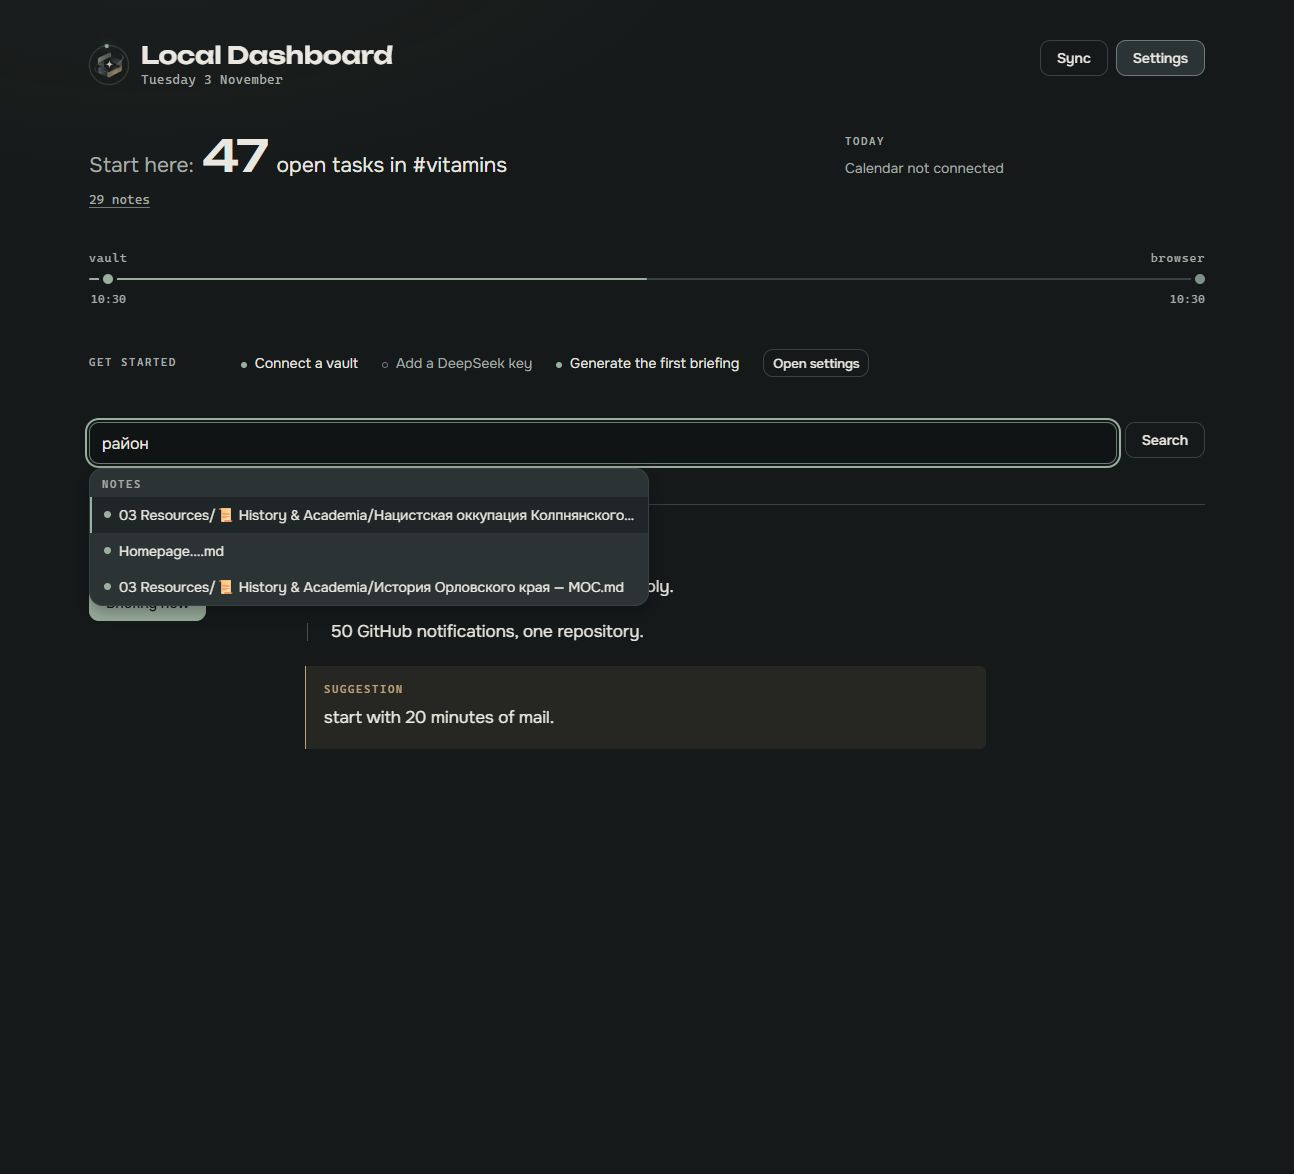
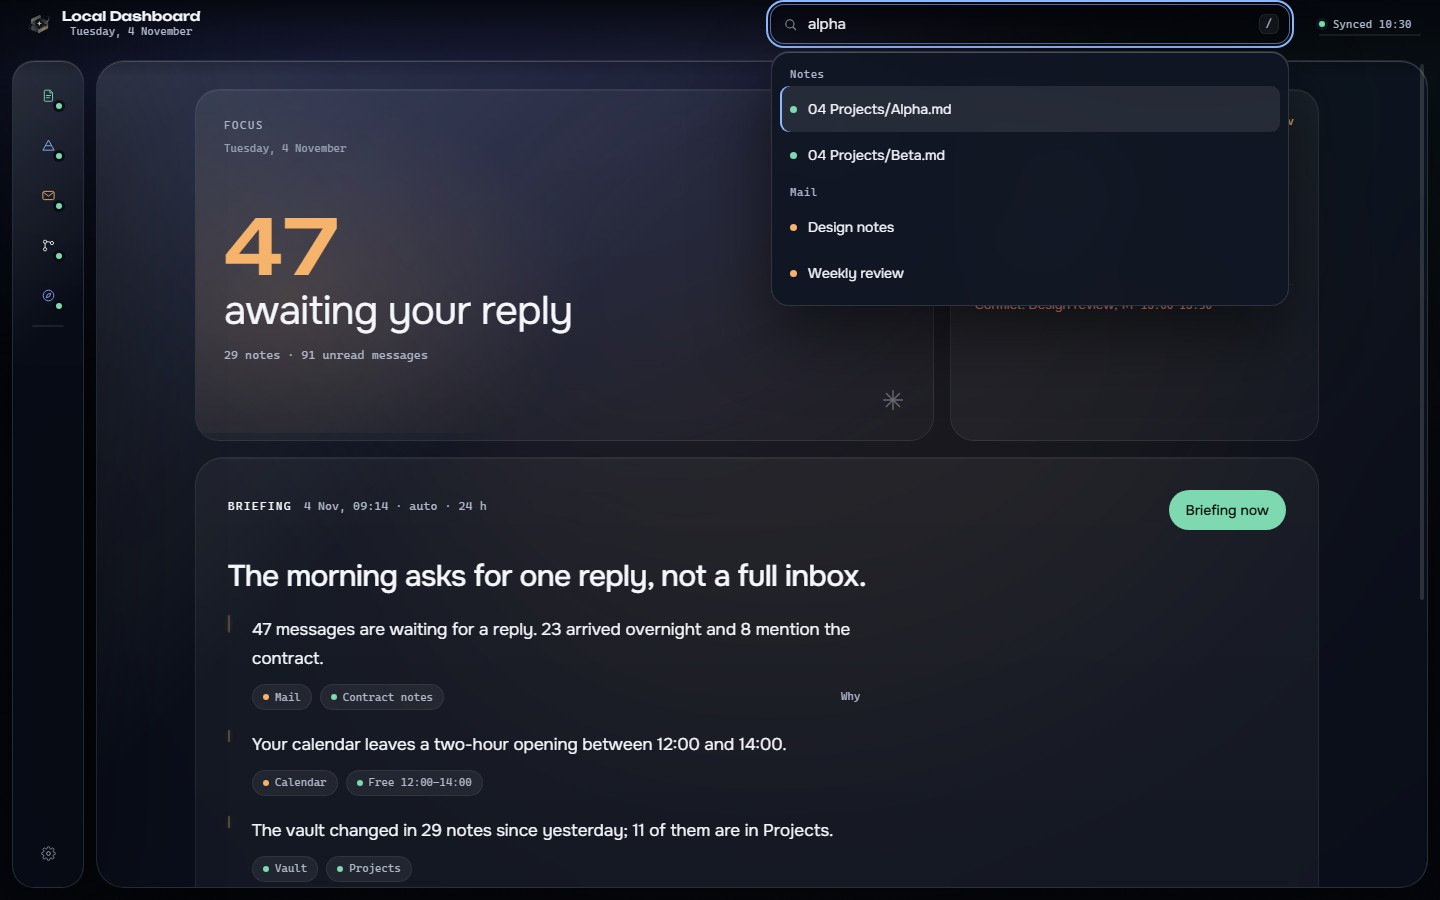
docs: refresh Aurora Glass screens, README and design notes

diff --git a/docs/screenshots/current/index.html b/docs/screenshots/current/index.html
@@ -6,12 +6,12 @@
     <style>
       :root {
         color-scheme: dark;
-        --bg: #15191a;
-        --surface: #202627;
-        --line: #394243;
-        --ink: #e9e7e0;
-        --muted: #a6ada7;
-        --accent: #9baf9e;
+        --bg: #05070d;
+        --surface: #0f1522;
+        --line: rgba(255, 255, 255, 0.13);
+        --ink: #f4f6fb;
+        --muted: #aeb6c8;
+        --accent: #7ed9b0;
       }
       body {
         margin: 0;
@@ -61,23 +61,27 @@
   </head>
   <body>
     <h1>Local Dashboard — current screens</h1>
-    <p class="sub">The one-page dashboard with the start line, services rail, today and the briefing. Dark only; the reading tick follows the line under the eye.</p>
+    <p class="sub">The Aurora Glass shell: a frameless window on a slow aurora, a source rail, the focus panel and the briefing. Dark only; a wallpaper can sit behind the glass.</p>
     <div class="grid">
       <figure>
-        <img src="dashboard.jpeg" alt="Dashboard with start line, services, today and briefing" />
-        <figcaption><b>Dashboard</b> — start line, services rail, today's calendar and the briefing column.</figcaption>
+        <img src="dashboard.jpeg" alt="Dashboard with the focus panel, source rail, today and the briefing" />
+        <figcaption><b>Dashboard</b> — focus, today's calendar and the briefing inside the glass stage.</figcaption>
       </figure>
       <figure>
         <img src="welcome.jpeg" alt="First-run welcome dialog" />
         <figcaption><b>First run</b> — what stays local and what is sent to DeepSeek.</figcaption>
       </figure>
       <figure>
-        <img src="search-suggestions.jpeg" alt="Search suggestions" />
-        <figcaption><b>Search</b> — notes, mail and Drive suggestions in a capped panel.</figcaption>
+        <img src="search-suggestions.jpeg" alt="Search suggestions under the command field" />
+        <figcaption><b>Search</b> — notes, mail and Drive suggestions in the command overlay.</figcaption>
       </figure>
       <figure>
         <img src="settings.jpeg" alt="Settings connections and preferences" />
-        <figcaption><b>Settings</b> — connections with hints, application panel and preferences.</figcaption>
+        <figcaption><b>Settings</b> — connections with hints, application panel, preferences and the wallpaper picker.</figcaption>
+      </figure>
+      <figure>
+        <img src="settings-preferences.jpeg" alt="Preferences with the wallpaper picker" />
+        <figcaption><b>Preferences</b> — briefing settings and the nine app backgrounds; Aurora is the default.</figcaption>
       </figure>
     </div>
   </body>

diff --git a/README.md b/README.md
@@ -16,18 +16,22 @@ briefing is generated.
 - **Start here** — one number and one sentence chosen from the attention rules: mail awaiting your
   reply, unread mail, open tasks, GitHub review requests, Inbox backlog, stale projects or Drive
   changes. The backlog stays in your services; the dashboard never becomes a second inbox.
-- **Services line** — every connected service as one line, which is also the sync progress. Click a
-  station to open that service; the tooltip says when it last synced or what failed.
-- **Today** — the day's calendar events, free windows and conflicts beside the start line.
-- **Daily briefing** — 5–7 bullets covering what moved, what is stuck and one suggestion for
-  today. Runs at 08:00, on demand, or on the first start after a missed day. Bullets are set as a
-  reading column; a Sand tick follows the line you are reading.
-- **Search** — one query across note text, mail, Drive file names and Google Docs content.
+- **Source rail** — every connected service as a vertical rail, which is also the sync progress. Click
+  a station to open that service; its tooltip says when it last synced or what failed.
+- **Today** — the day's calendar events, free windows and conflicts beside the focus panel.
+- **Daily briefing** — 5–7 points covering what moved, what is stuck and one suggestion for today.
+  Runs at 08:00, on demand, or on the first start after a missed day. Points are set as a reading
+  column with an amber line that follows the point you are reading.
+- **Search** — one command field over note text, mail, Drive file names and Google Docs content,
+  with suggestions in place and results in a glass overlay.
 - **Mail** — read-only Gmail over IMAP: senders, subjects and the last 90 days of message text.
   Attachments are indexed by name only and never downloaded.
 - **Browser history** — Chrome, Edge or Helium domains; only aggregate counts reach the briefing.
 - **GitHub** — unread notifications and review requests.
-- **Desktop shell** — Electron window, tray, native notifications and optional autostart.
+- **Desktop shell** — a frameless Electron window on a slow aurora, with a custom title bar, tray,
+  native notifications, optional autostart and remembered size and position.
+- **Wallpapers** — nine images ship with the app; pick one under **Settings → Preferences → App
+  background** and it sits behind the glass. Aurora remains the default.
 - **Settings** — connections with a hint per service. Preferences save as you edit; each field shows
   its own `Saving…` / `Saved 09:14` receipt, and a failed write keeps your text with `Retry`.
 
@@ -97,9 +101,9 @@ telemetry, no analytics and no cloud account.
 | | |
 | --- | --- |
 | ![Dashboard](docs/screenshots/current/dashboard.jpeg) | ![Welcome](docs/screenshots/current/welcome.jpeg) |
-| Start here, services, today and the briefing | First run says what stays local |
+| Focus, source rail, today and the briefing inside the glass stage | First run says what stays local |
 | ![Search](docs/screenshots/current/search-suggestions.jpeg) | ![Settings](docs/screenshots/current/settings.jpeg) |
-| Search across notes, mail and Drive | Connections with per-service hints |
+| Search in the command field, grouped suggestions | Connections, preferences and the wallpaper picker |
 
 More screens: [`docs/screenshots/current/index.html`](docs/screenshots/current/index.html).
 

diff --git a/DESIGN.md b/DESIGN.md
@@ -1,6 +1,6 @@
 # DESIGN — Local Dashboard
 
-**Status:** direction approved 2026-11-04; implementation in progress. This document supersedes the 0.8.0 "quiet instrument" visual language.
+**Status:** implemented 2026-11-05. This document describes the current interface and supersedes the 0.8.0 "quiet instrument" visual language.
 **Full screen-by-screen design:** `C:\references\local dashboard\LOCAL-DASHBOARD-OPEN-DESIGN-BRIEF.md` (external to the repo; use this file as the binding summary once it lands).
 **Scope:** the whole desktop app — window shell, dashboard, search overlay, settings, connection modal, confirm dialog, welcome dialog, splash.
 **Character:** one glass instrument in a dark room, lit by a slow aurora. Editorial type, precise metadata, warm light only where attention lives.
@@ -124,6 +124,12 @@ Fixed aurora behind everything:
 - 2% monochrome grain overlay to prevent banding.
 
 The layer is 140% oversized and drifts 3–5% over 48s, alternating. The amber light reads through the hero as a ≤16% bloom behind the number; it is one source, not a second glow.
+
+### 3.5 Wallpaper
+
+A wallpaper is optional and lives in the same environment layer, below the aurora: `background-size: cover`, centred, dimmed to a dark scrim so the glass and text keep their contrast. Choosing an image does not replace the aurora; the aurora drops to a low-opacity light on top. `Aurora` is the default and means no image.
+
+Nine images ship in `assets/wallpapers/` with 480×300 thumbnails in `assets/wallpapers/thumbs/`. The picker lives at **Settings → Preferences → App background**; the choice is stored through `/api/settings` and survives restarts. Images never enter a panel, never sit inside the stage, and are never used as content backgrounds.
 
 ---
 
@@ -314,7 +320,7 @@ Sentence case; plain and factual. Buttons say what happens. Times 24-hour, dates
 
 ## 15. Non-goals
 
-Light theme, theme toggle, photographic backgrounds, 3D renders, neon, particles, pointer-tracked tilt, charts, kanban, fake navigation, new sources, new data, mobile layout, anything that writes to a source. No activity feed or attention queue.
+Light theme, theme toggle, photographic backgrounds inside panels, 3D renders, neon, particles, pointer-tracked tilt, charts, kanban, fake navigation, new sources, new data, mobile layout, anything that writes to a source. No activity feed or attention queue. A wallpaper is allowed only as the environment layer (§3.5).
 
 ---
 
@@ -322,6 +328,7 @@ Light theme, theme toggle, photographic backgrounds, 3D renders, neon, particles
 
 - [ ] Tokens in `:root`; `color-scheme: dark`; no raw hex outside the token block.
 - [ ] Aurora + grain are CSS/SVG, static layer, drift only with motion allowed.
+- [ ] Wallpaper is optional, sits below the aurora, is dimmed behind the glass and falls back to Aurora.
 - [ ] Glass recipe shared; inner tiles flat; no nested blur; blur never animated.
 - [ ] Frameless window with custom title bar, drag, double-click maximize, labelled controls, persisted bounds.
 - [ ] Rail with five sources + settings; accessible names include state and destination.

diff --git a/PRODUCT.md b/PRODUCT.md
@@ -37,11 +37,11 @@ cloud account behind it.
 
 - Windows desktop first, used at the start of the workday: 08:00 briefing with catch-up on start,
   plus ad hoc glances when something feels unfiled.
-- Electron window with tray, native notifications and optional autostart. The Aurora Glass shell
-  (implementation in progress) is frameless with a custom title bar and remembers its size, position
-  and maximized state. Closing the window hides to the tray. Packaged data lives in
-  `%APPDATA%\Local Dashboard\data`; `.env` is optional and imported once, then connections are managed
-  in the settings screen.
+- Electron window with tray, native notifications and optional autostart. The Aurora Glass shell is
+  frameless with a custom title bar and remembers its size, position and maximized state. Nine
+  wallpapers can sit behind the glass; Aurora is the default. Closing the window hides to the tray.
+  Packaged data lives in `%APPDATA%\Local Dashboard\data`; `.env` is optional and imported once, then
+  connections are managed in the settings screen.
 - Sources are real, user-owned accounts: an Obsidian vault with non-ASCII folder names, Gmail over
   IMAP with an app password, a self-created Google Cloud OAuth desktop client kept in Production,
   a GitHub token with `notifications`, and a local Chrome/Edge/Helium history database.
@@ -74,9 +74,9 @@ IDLE, weekly review and vault write-back are roadmap items, not current behaviou
 ## Brand Commitments
 
 - Name: **Local Dashboard** (product name, appId `com.bibitupa.localdashboard`), MIT.
-- Visual language is pinned in `DESIGN.md`: **Aurora Glass** — dark only, glass shell, an aurora
-  environment, amber/mint/ice/coral semantics, motion that reports state. Approved as a replacement
-  world on 2026-11-04; treat it as binding for refinements.
+- Visual language is pinned in `DESIGN.md`: **Aurora Glass** - dark only, glass shell, an aurora
+  environment, amber/mint/ice/coral semantics, motion that reports state, and an optional wallpaper
+  behind the glass. Implemented on 2026-11-05; treat it as binding for refinements.
 - Typography: Unbounded for display, Onest for body, both self-hosted in `src/web/fonts` under the
   SIL Open Font License. Cyrillic coverage is required.
 - Voice in the interface is plain and factual — statuses, counts, timestamps, no marketing tone.
@@ -84,8 +84,8 @@ IDLE, weekly review and vault write-back are roadmap items, not current behaviou
 ## Evidence on Hand
 
 - `README.md` — product claims, install paths, source table, privacy section, troubleshooting table.
-- `docs/screenshots/current/` — real captures of dashboard, activity, diff, search, settings,
-  connection modal, confirm dialog, with `index.html` as the gallery.
+- `docs/screenshots/current/` - real captures of the dashboard, search, settings and the welcome
+  dialog, with `index.html` as the gallery.
 - `DESIGN.md` (visual language), `SECURITY.md`, `CHANGELOG.md`, `AGENTS.md`, `LICENSE`.
 - `docs/superpowers/plans/` — the build plan and the 0.8.0 redesign plan.
 - Public repo `bibitupa-b/Local-Dashboard` with tagged releases.

diff --git a/AGENTS.md b/AGENTS.md
@@ -75,9 +75,10 @@ These were agreed with the user; do not re-litigate them without asking.
 - Attention queue rules: open tasks grouped by tag (recurring tags such as `#vitamins` collapse into one row with a count), notes with frontmatter `status: Undone` untouched for 14+ days, notes sitting in `Inbox` for 3+ days, unread mail from the last 30 days and the next calendar event.
 - Autostart is managed by Electron (`app.setLoginItemSettings`), toggled from the tray.
 - Visual language follows `DESIGN.md`: **Aurora Glass** — dark only, a frameless glass shell on a
-  slowly drifting aurora, amber/mint/ice/coral semantics, motion that reports state. Onest carries
-  reading and display, Unbounded is the brand/number face, mono is the system stack; Onest and
-  Unbounded are self-hosted in `src/web/fonts` (OFL).
+  slowly drifting aurora, amber/mint/ice/coral semantics, motion that reports state, and an optional
+  wallpaper behind the glass (Aurora is the default). Onest carries reading and display, Unbounded is
+  the brand/number face, mono is the system stack; Onest and Unbounded are self-hosted in
+  `src/web/fonts` (OFL).
 
 ## Data model
 
